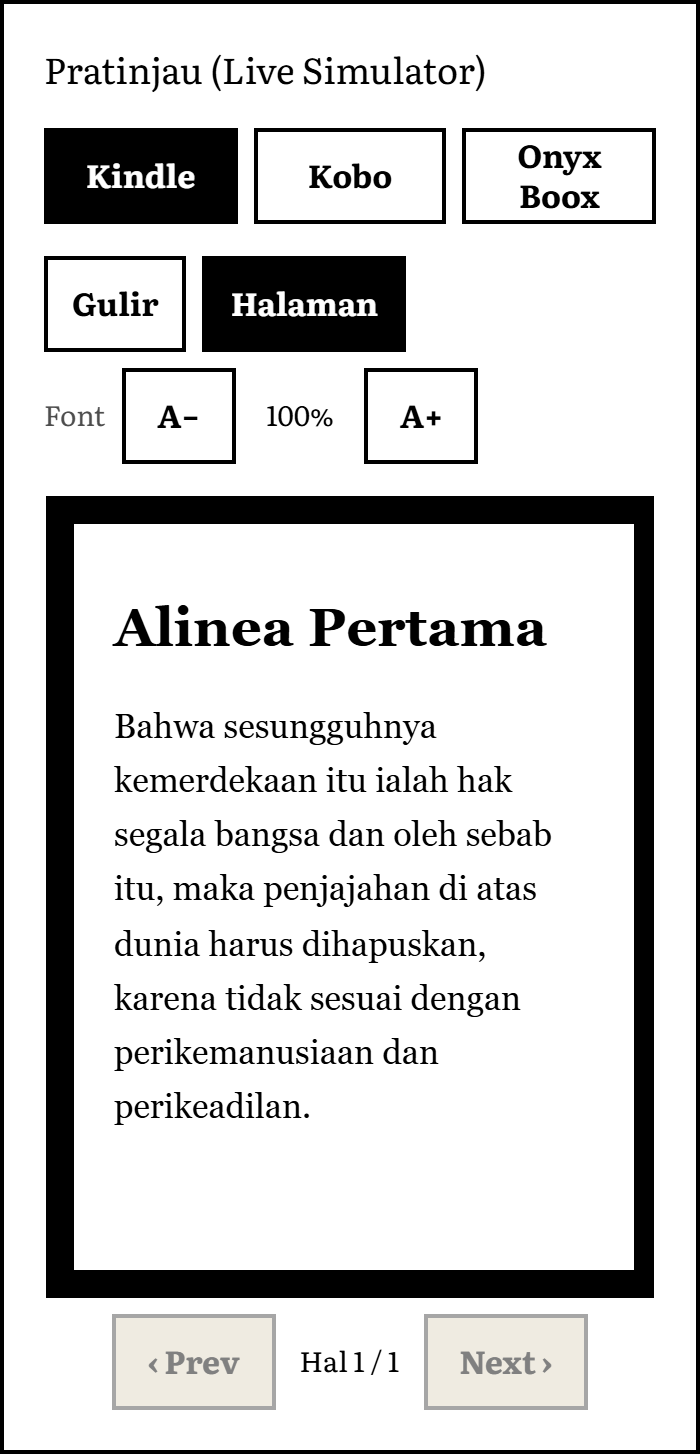
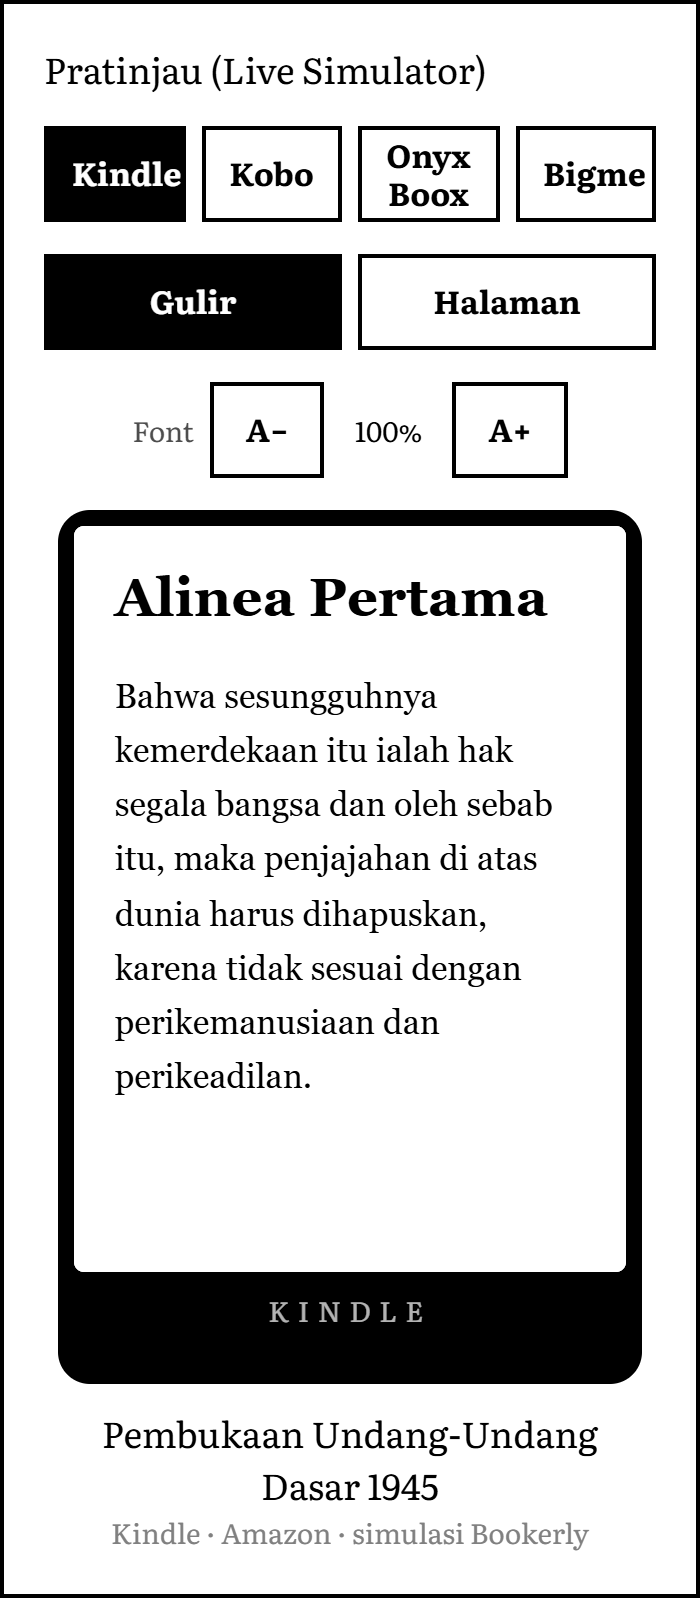
fix(ui): anti-overflow dual-pane, Simulator ala perangkat (bezel tipis), Daftar Bab bisa diklik
- Fix overflow kolom sempit dual-pane: Metadata (Bahasa/Arah baca full-width
  stacked), tombol mode Simulator baris sendiri, kartu Gaya Sampul; +min-w-0
  pada SegmentedOption & OptionCard; cover auto bertumpuk.
- Live Simulator mirip perangkat: bezel membulat border tipis (kiri/kanan/atas)
  + dagu bermerek (kindle/kobo/BOOX/Bigme) + judul buku sebagai keterangan
  kosmetik di bawah.
- Daftar Bab bisa diklik -> bab terpilih tampil di Live Simulator (disorot).

Verifikasi: typecheck bersih, smoke 105/105, validate 134/134, build OK.

Changed region(s): [[0.06, 0.0309, 0.96, 0.9904]]

diff --git a/src/ui/Simulator.tsx b/src/ui/Simulator.tsx
@@ -22,11 +22,14 @@ export function Simulator({
   script,
   direction,
   lang,
+  title,
 }: {
   chapter: Chapter
   script: ScriptHint
   direction: TextDirection
   lang: string
+  /** Judul buku — ditampilkan sebagai keterangan kosmetik di bawah perangkat. */
+  title?: string
 }) {
   const [device, setDevice] = useState<Device>(DEVICES[0])
   const [fontScale, setFontScale] = useState(1)
@@ -107,77 +110,85 @@ export function Simulator({
         ))}
       </div>
 
-      <div className="flex flex-wrap items-center justify-between gap-2">
-        <div className="flex gap-2" role="group" aria-label="Mode baca">
-          <SegmentedOption active={mode === 'scroll'} onClick={() => setMode('scroll')}>
-            Gulir
-          </SegmentedOption>
-          <SegmentedOption active={mode === 'page'} onClick={() => setMode('page')}>
-            Halaman
-          </SegmentedOption>
-        </div>
-        <div className="flex items-center gap-2">
-          <span className="font-ui text-body text-ink-muted">Font</span>
-          <button
-            type="button"
-            className="btn-eink min-h-tap px-4"
-            onClick={() => setFontScale((s) => Math.max(MIN_SCALE, +(s - STEP).toFixed(1)))}
-            disabled={fontScale <= MIN_SCALE}
-            aria-label="Perkecil font"
-          >
-            A−
-          </button>
-          <span className="w-12 text-center font-ui text-body text-ink">{Math.round(fontScale * 100)}%</span>
-          <button
-            type="button"
-            className="btn-eink min-h-tap px-4"
-            onClick={() => setFontScale((s) => Math.min(MAX_SCALE, +(s + STEP).toFixed(1)))}
-            disabled={fontScale >= MAX_SCALE}
-            aria-label="Perbesar font"
-          >
-            A+
-          </button>
-        </div>
+      <div className="flex gap-2" role="group" aria-label="Mode baca">
+        <SegmentedOption active={mode === 'scroll'} onClick={() => setMode('scroll')}>
+          Gulir
+        </SegmentedOption>
+        <SegmentedOption active={mode === 'page'} onClick={() => setMode('page')}>
+          Halaman
+        </SegmentedOption>
       </div>
 
-      {/* Bingkai perangkat E-Ink: bezel tebal hitam, layar putih */}
-      <div className="flex flex-col items-center gap-2">
-        <div className="relative border-eink border-black bg-black p-3" style={{ width: DISPLAY_WIDTH + 24 }}>
-          <iframe
-            ref={iframeRef}
-            title={`Pratinjau ${device.name}`}
-            srcDoc={srcDoc}
-            onLoad={measure}
-            // allow-same-origin agar @font-face /fonts/ termuat & parent bisa
-            // mengukur/menggeser halaman. Tanpa allow-scripts: JS konten tetap
-            // diblokir — aman dari XSS.
-            sandbox="allow-same-origin"
-            className="block border-0 bg-white"
-            style={{ width: DISPLAY_WIDTH, height: screenHeight }}
-            scrolling={paged ? 'no' : 'auto'}
-          />
-          {/* Zona ketuk halaman (hanya mode Halaman) — menumpuk di atas iframe. */}
-          {paged && (
-            <div className="absolute inset-3 flex" aria-hidden="true">
-              <button
-                type="button"
-                className="h-full w-1/2 cursor-w-resize bg-transparent"
-                onClick={onLeftTap}
-                aria-label="Halaman sebelumnya"
-                tabIndex={-1}
-              />
-              <button
-                type="button"
-                className="h-full w-1/2 cursor-e-resize bg-transparent"
-                onClick={onRightTap}
-                aria-label="Halaman berikutnya"
-                tabIndex={-1}
-              />
-            </div>
-          )}
+      <div className="flex items-center justify-center gap-2">
+        <span className="font-ui text-body text-ink-muted">Font</span>
+        <button
+          type="button"
+          className="btn-eink min-h-tap px-4"
+          onClick={() => setFontScale((s) => Math.max(MIN_SCALE, +(s - STEP).toFixed(1)))}
+          disabled={fontScale <= MIN_SCALE}
+          aria-label="Perkecil font"
+        >
+          A−
+        </button>
+        <span className="w-12 text-center font-ui text-body text-ink">{Math.round(fontScale * 100)}%</span>
+        <button
+          type="button"
+          className="btn-eink min-h-tap px-4"
+          onClick={() => setFontScale((s) => Math.min(MAX_SCALE, +(s + STEP).toFixed(1)))}
+          disabled={fontScale >= MAX_SCALE}
+          aria-label="Perbesar font"
+        >
+          A+
+        </button>
+      </div>
+
+      {/* Bingkai ala e-reader: bezel membulat tebal + "dagu" bermerek (kosmetik) */}
+      <div className="flex flex-col items-center gap-3">
+        <div
+          className="rounded-[16px] border-eink border-black bg-black px-1.5 pt-1.5 pb-6"
+          style={{ width: DISPLAY_WIDTH + 12 }}
+        >
+          <div className="relative overflow-hidden rounded-[5px]">
+            <iframe
+              ref={iframeRef}
+              title={`Pratinjau ${device.name}`}
+              srcDoc={srcDoc}
+              onLoad={measure}
+              // allow-same-origin agar @font-face /fonts/ termuat & parent bisa
+              // mengukur/menggeser halaman. Tanpa allow-scripts: JS konten tetap
+              // diblokir — aman dari XSS.
+              sandbox="allow-same-origin"
+              className="block border-0 bg-white"
+              style={{ width: DISPLAY_WIDTH, height: screenHeight }}
+              scrolling={paged ? 'no' : 'auto'}
+            />
+            {/* Zona ketuk halaman (hanya mode Halaman) — menumpuk di atas iframe. */}
+            {paged && (
+              <div className="absolute inset-0 flex" aria-hidden="true">
+                <button
+                  type="button"
+                  className="h-full w-1/2 cursor-w-resize bg-transparent"
+                  onClick={onLeftTap}
+                  aria-label="Halaman sebelumnya"
+                  tabIndex={-1}
+                />
+                <button
+                  type="button"
+                  className="h-full w-1/2 cursor-e-resize bg-transparent"
+                  onClick={onRightTap}
+                  aria-label="Halaman berikutnya"
+                  tabIndex={-1}
+                />
+              </div>
+            )}
+          </div>
+          {/* Dagu perangkat: label merek (kosmetik) */}
+          <div className="pt-2 text-center font-ui text-body uppercase tracking-[0.3em] text-white/70">
+            {device.brand}
+          </div>
         </div>
 
-        {paged ? (
+        {paged && (
           <div className="flex items-center gap-3">
             <button type="button" className="btn-eink px-4" onClick={goPrev} disabled={page <= 0}>
               ‹ Prev
@@ -194,9 +205,17 @@ export function Simulator({
               Next ›
             </button>
           </div>
-        ) : (
-          <span className="font-ui text-body text-ink-faint">{device.note}</span>
         )}
+
+        {/* Keterangan kosmetik: judul buku + perangkat yang disimulasikan */}
+        <div className="flex flex-col items-center text-center">
+          <span className="max-w-[260px] font-ui text-subtitle text-ink">
+            {(title ?? '').trim() || chapter.title}
+          </span>
+          <span className="font-ui text-body text-ink-faint">
+            {device.name} · {device.note}
+          </span>
+        </div>
       </div>
     </div>
   )

diff --git a/src/ui/ConverterApp.tsx b/src/ui/ConverterApp.tsx
@@ -2,6 +2,7 @@
  * Alur konversi Fase 4: Unggah -> Pratinjau & Metadata -> Sampul -> Build -> Unduh.
  * Satu layar linear, ramah E-Ink (border tegas, tanpa animasi). 100% client-side.
  */
+import { useEffect, useState } from 'react'
 import { InputPanel } from './InputPanel'
 import { StarterLibrary } from './StarterLibrary'
 import { CoverPanel } from './CoverPanel'
@@ -58,6 +59,12 @@ export function ConverterApp() {
   const isImageBook = c.ir?.meta.source === 'image-book'
   // Dual-Pane hanya bila ada pratinjau (bukan Image-Book) — jika tidak, satu kolom.
   const twoPane = loaded && !isImageBook && Boolean(c.ir?.chapters[0])
+
+  // Bab yang sedang dipratinjau di Live Simulator (diklik dari Daftar Bab).
+  const [previewIndex, setPreviewIndex] = useState(0)
+  useEffect(() => setPreviewIndex(0), [c.ir])
+  const chapterCount = c.ir?.chapters.length ?? 0
+  const activeIndex = Math.min(previewIndex, Math.max(0, chapterCount - 1))
 
   return (
     <>
@@ -149,7 +156,7 @@ export function ConverterApp() {
                   <Field id="title" label="Judul" value={c.title} onChange={c.setTitle} placeholder="Judul buku" />
                   <Field id="author" label="Penulis" value={c.author} onChange={c.setAuthor} placeholder="(opsional)" />
 
-                  <div className="grid gap-4 sm:grid-cols-2">
+                  <div className="flex flex-col gap-4">
                     <label htmlFor="lang" className="flex flex-col gap-1.5">
                       <span className="font-ui text-body text-ink-muted">Bahasa</span>
                       <select
@@ -213,15 +220,34 @@ export function ConverterApp() {
               </Section>
 
               <Section title="Daftar Bab">
-                <ol className="flex flex-col gap-1">
-                  {c.ir.chapters.map((chap, i) => (
-                    <li key={chap.id} className="flex items-baseline justify-between border-b border-paper-line py-1.5 last:border-0">
-                      <span className="font-ui text-body-lg text-ink">
-                        <span className="text-ink-faint">{i + 1}.</span> {chap.title}
-                      </span>
-                      <span className="font-ui text-body text-ink-faint">{chap.blocks.length} blok</span>
-                    </li>
-                  ))}
+                {twoPane && (
+                  <p className="mb-2 font-ui text-body text-ink-faint">
+                    Ketuk bab untuk melihatnya di Live Simulator.
+                  </p>
+                )}
+                <ol className="flex flex-col">
+                  {c.ir.chapters.map((chap, i) => {
+                    const active = twoPane && i === activeIndex
+                    return (
+                      <li key={chap.id} className="border-b border-paper-line last:border-0">
+                        <button
+                          type="button"
+                          onClick={() => setPreviewIndex(i)}
+                          aria-pressed={active}
+                          className={`flex w-full items-baseline justify-between gap-2 px-2 py-1.5 text-left
+                                      ${active ? 'bg-black text-white' : 'bg-transparent'}
+                                      focus-visible:outline-none focus-visible:border-dashed focus-visible:border-eink`}
+                        >
+                          <span className={`font-ui text-body-lg ${active ? 'text-white' : 'text-ink'}`}>
+                            <span className={active ? 'text-white' : 'text-ink-faint'}>{i + 1}.</span> {chap.title}
+                          </span>
+                          <span className={`shrink-0 font-ui text-body ${active ? 'text-white' : 'text-ink-faint'}`}>
+                            {chap.blocks.length} blok
+                          </span>
+                        </button>
+                      </li>
+                    )
+                  })}
                 </ol>
               </Section>
 
@@ -295,14 +321,15 @@ export function ConverterApp() {
               </Section>
             </div>
 
-            {twoPane && c.ir.chapters[0] && (
+            {twoPane && c.ir.chapters[activeIndex] && (
               <div className="flex min-w-0 flex-col gap-6 lg:sticky lg:top-8">
                 <Section title="Pratinjau (Live Simulator)">
                   <Simulator
-                    chapter={c.ir.chapters[0]}
+                    chapter={c.ir.chapters[activeIndex]}
                     script={c.ir.meta.script}
                     direction={c.ir.meta.direction}
                     lang={c.ir.meta.language}
+                    title={c.title}
                   />
                 </Section>
               </div>

diff --git a/src/ui/CoverPanel.tsx b/src/ui/CoverPanel.tsx
@@ -95,14 +95,14 @@ export function CoverPanel({
       </div>
 
       {mode === 'auto' && (
-        <div className="flex flex-col gap-4 sm:flex-row sm:items-start">
+        <div className="flex flex-col gap-4">
           <div className="flex flex-col items-center gap-1">
             <CoverCanvas title={title} author={author} theme={theme} width={160} />
             <span className="font-ui text-body text-ink-faint">Pratinjau</span>
           </div>
-          <div className="flex flex-1 flex-col gap-2">
+          <div className="flex flex-col gap-2">
             <span className="font-ui text-body-lg text-ink">Gaya Sampul</span>
-            <div className="grid grid-cols-2 gap-2">
+            <div className="grid grid-cols-1 gap-2 sm:grid-cols-2">
               {STYLES.map((s) => {
                 const active = theme === s.id
                 return (
@@ -111,12 +111,14 @@ export function CoverPanel({
                     type="button"
                     onClick={() => onTheme(s.id)}
                     aria-pressed={active}
-                    className={`flex items-center gap-3 border-eink border-black p-2 text-left
+                    className={`flex min-w-0 items-center gap-3 border-eink border-black p-2 text-left
                                 ${active ? 'bg-black text-white' : 'bg-white text-black'}
                                 focus-visible:outline-none focus-visible:border-dashed`}
                   >
-                    <CoverCanvas title={title} theme={s.id} width={38} />
-                    <span className="flex flex-col">
+                    <span className="shrink-0">
+                      <CoverCanvas title={title} theme={s.id} width={34} />
+                    </span>
+                    <span className="flex min-w-0 flex-col">
                       <span className="font-ui text-button">{s.label}</span>
                       <span className={`font-ui text-body ${active ? 'text-white' : 'text-ink-muted'}`}>
                         {s.desc}

diff --git a/src/ui/primitives.tsx b/src/ui/primitives.tsx
@@ -95,7 +95,7 @@ export function OptionCard({
       onClick={onClick}
       disabled={disabled}
       aria-pressed={active}
-      className={`flex min-h-tap flex-1 flex-col items-start justify-center gap-0.5 border-eink border-black px-4 py-2 text-left
+      className={`flex min-h-tap min-w-0 flex-1 flex-col items-start justify-center gap-0.5 border-eink border-black px-4 py-2 text-left
                   ${active ? 'bg-black text-white' : 'bg-white text-black'}
                   disabled:cursor-not-allowed disabled:border-gray-400 disabled:bg-paper-soft disabled:text-ink-faint
                   focus-visible:outline-none focus-visible:border-dashed`}
@@ -124,7 +124,7 @@ export function SegmentedOption({
       onClick={onClick}
       disabled={disabled}
       aria-pressed={active}
-      className={`min-h-tap flex-1 border-eink border-black px-3 font-ui text-button
+      className={`min-h-tap min-w-0 flex-1 border-eink border-black px-3 font-ui text-button
                   ${active ? 'bg-black text-white' : 'bg-white text-black'}
                   disabled:text-ink-faint disabled:border-gray-400 disabled:bg-paper-soft disabled:cursor-not-allowed
                   focus-visible:outline-none focus-visible:border-dashed`}

diff --git a/src/ui/devices.ts b/src/ui/devices.ts
@@ -19,6 +19,8 @@ export interface Device {
   deviceFont: string
   /** Catatan kecil di bawah bingkai. */
   note: string
+  /** Label merek pada "dagu" bingkai (kosmetik, meniru perangkat asli). */
+  brand: string
 }
 
 export const DEVICES: Device[] = [
@@ -29,6 +31,7 @@ export const DEVICES: Device[] = [
     baseFontPx: 17,
     deviceFont: 'Georgia, "Times New Roman", serif', // simulasi Bookerly
     note: 'Amazon · simulasi Bookerly',
+    brand: 'kindle',
   },
   {
     id: 'kobo',
@@ -37,6 +40,7 @@ export const DEVICES: Device[] = [
     baseFontPx: 17,
     deviceFont: '"Palatino Linotype", Georgia, serif',
     note: 'Rakuten Kobo',
+    brand: 'kobo',
   },
   {
     id: 'onyx',
@@ -45,6 +49,7 @@ export const DEVICES: Device[] = [
     baseFontPx: 16,
     deviceFont: '"Literata", Georgia, serif',
     note: 'Onyx Boox / Meebook',
+    brand: 'BOOX',
   },
   {
     id: 'bigme',
@@ -53,6 +58,7 @@ export const DEVICES: Device[] = [
     baseFontPx: 16,
     deviceFont: '"Noto Serif", Georgia, serif',
     note: 'Bigme · Android E-Ink (NeoReader/KOReader)',
+    brand: 'Bigme',
   },
 ]
 

diff --git a/docs/CHANGELOG.md b/docs/CHANGELOG.md
@@ -32,6 +32,15 @@ Acuan produk: [BRIEF.md](BRIEF.md). Catatan yang memengaruhi hasil: [CATATAN-KON
   **relatif lebar cover** (pratinjau kecil = ekspor besar, WYSIWYG), blok judul diklem agar
   tak terpotong di atas. Guard regresi di smoke (105) & validate (134, +dc:publisher/description/subject).
 
+### Perbaikan tata letak (anti-overflow) & kosmetik perangkat
+- **Fix overflow** di dual-pane (kolom sempit): tombol Metadata (Bahasa/Arah baca jadi
+  full-width stacked), kartu Gaya Sampul & tombol mode Simulator (`min-w-0` + susun ulang
+  baris) tak lagi terpotong.
+- **Live Simulator ala perangkat asli**: bezel membulat border tipis (kiri/kanan/atas) +
+  "dagu" bermerek (kindle/kobo/BOOX/Bigme) + **judul buku sebagai keterangan kosmetik** di
+  bawah bingkai.
+- **Daftar Bab bisa diklik** → bab yang dipilih tampil di Live Simulator (bab aktif disorot).
+
 ### UI/UX
 - **Dual-Pane** layar lebar (editor kiri, Live Simulator sticky kanan); satu kolom di HP.
 - **Live Simulator**: mode **Gulir** & **Halaman** (page-flip ketuk) + device **Bigme**
